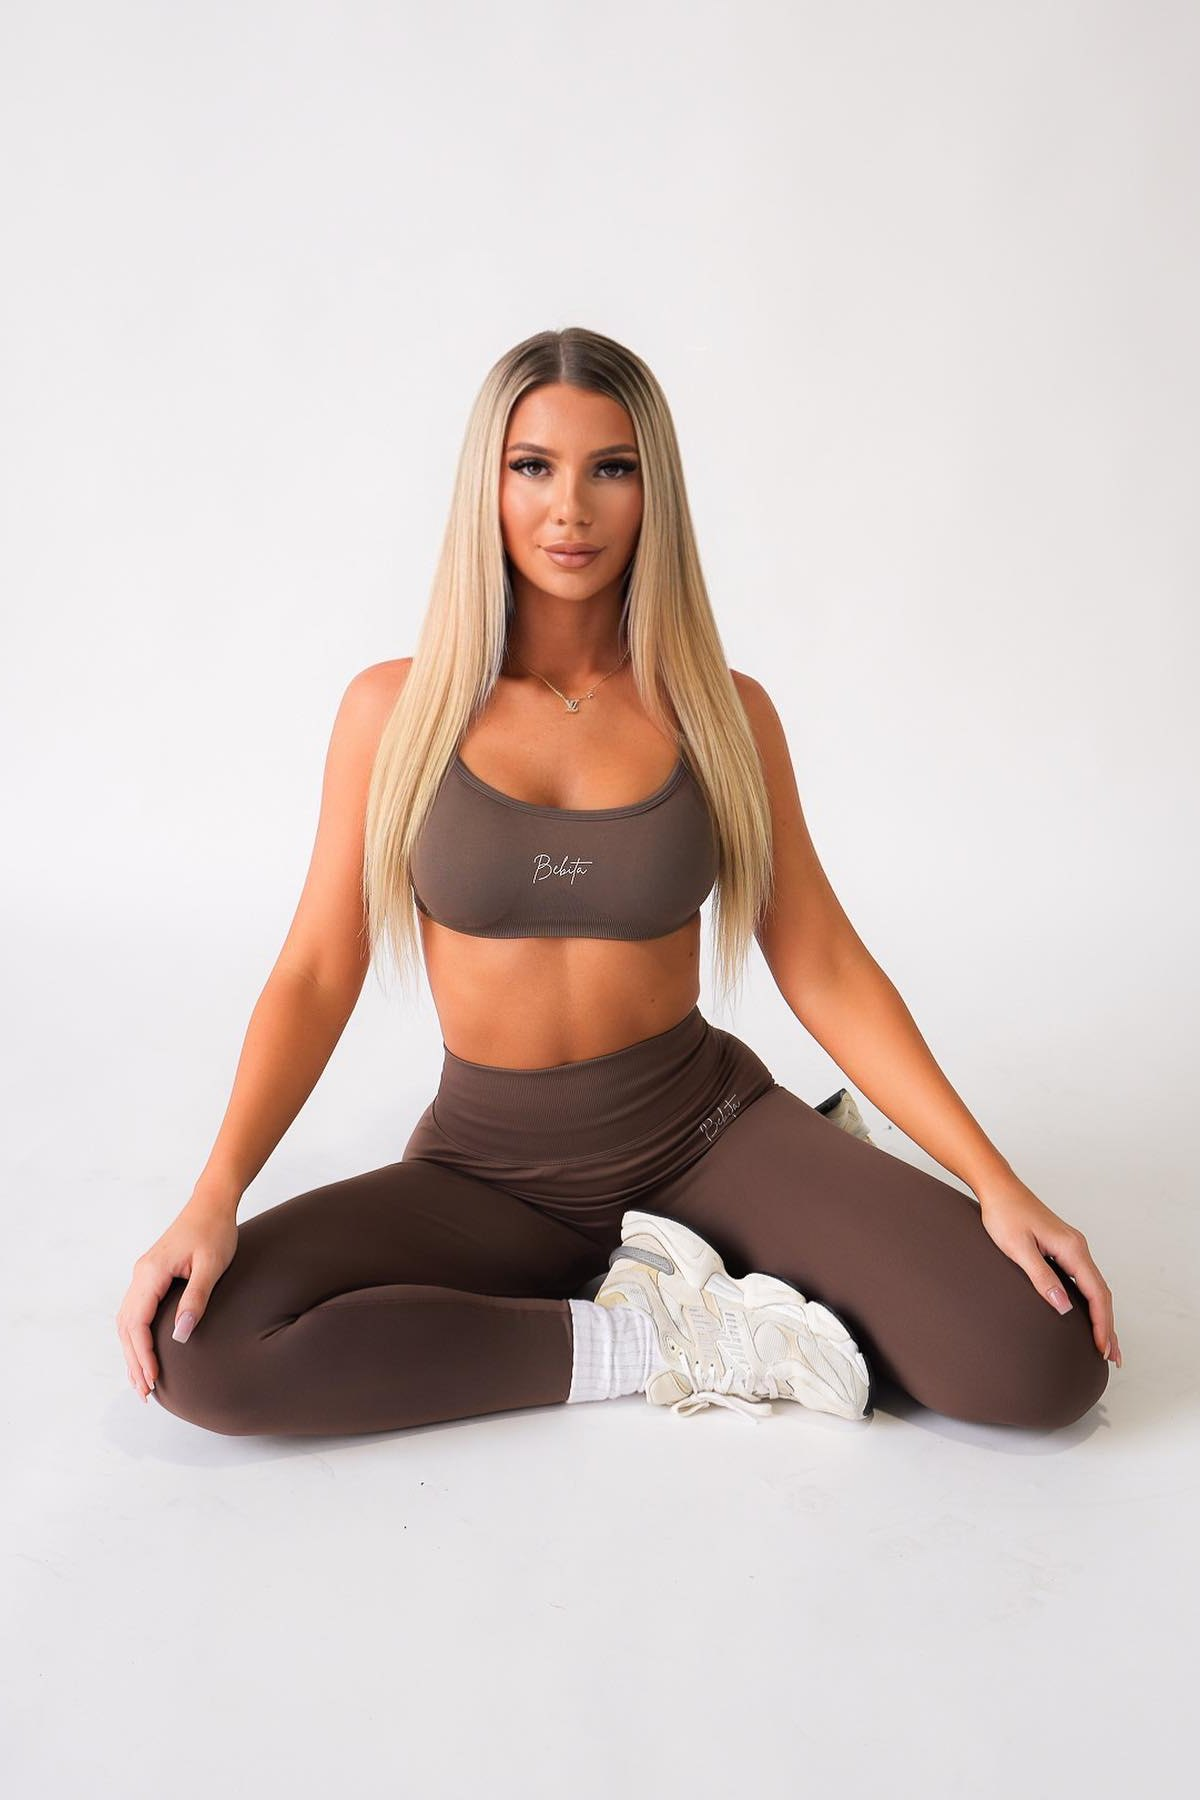
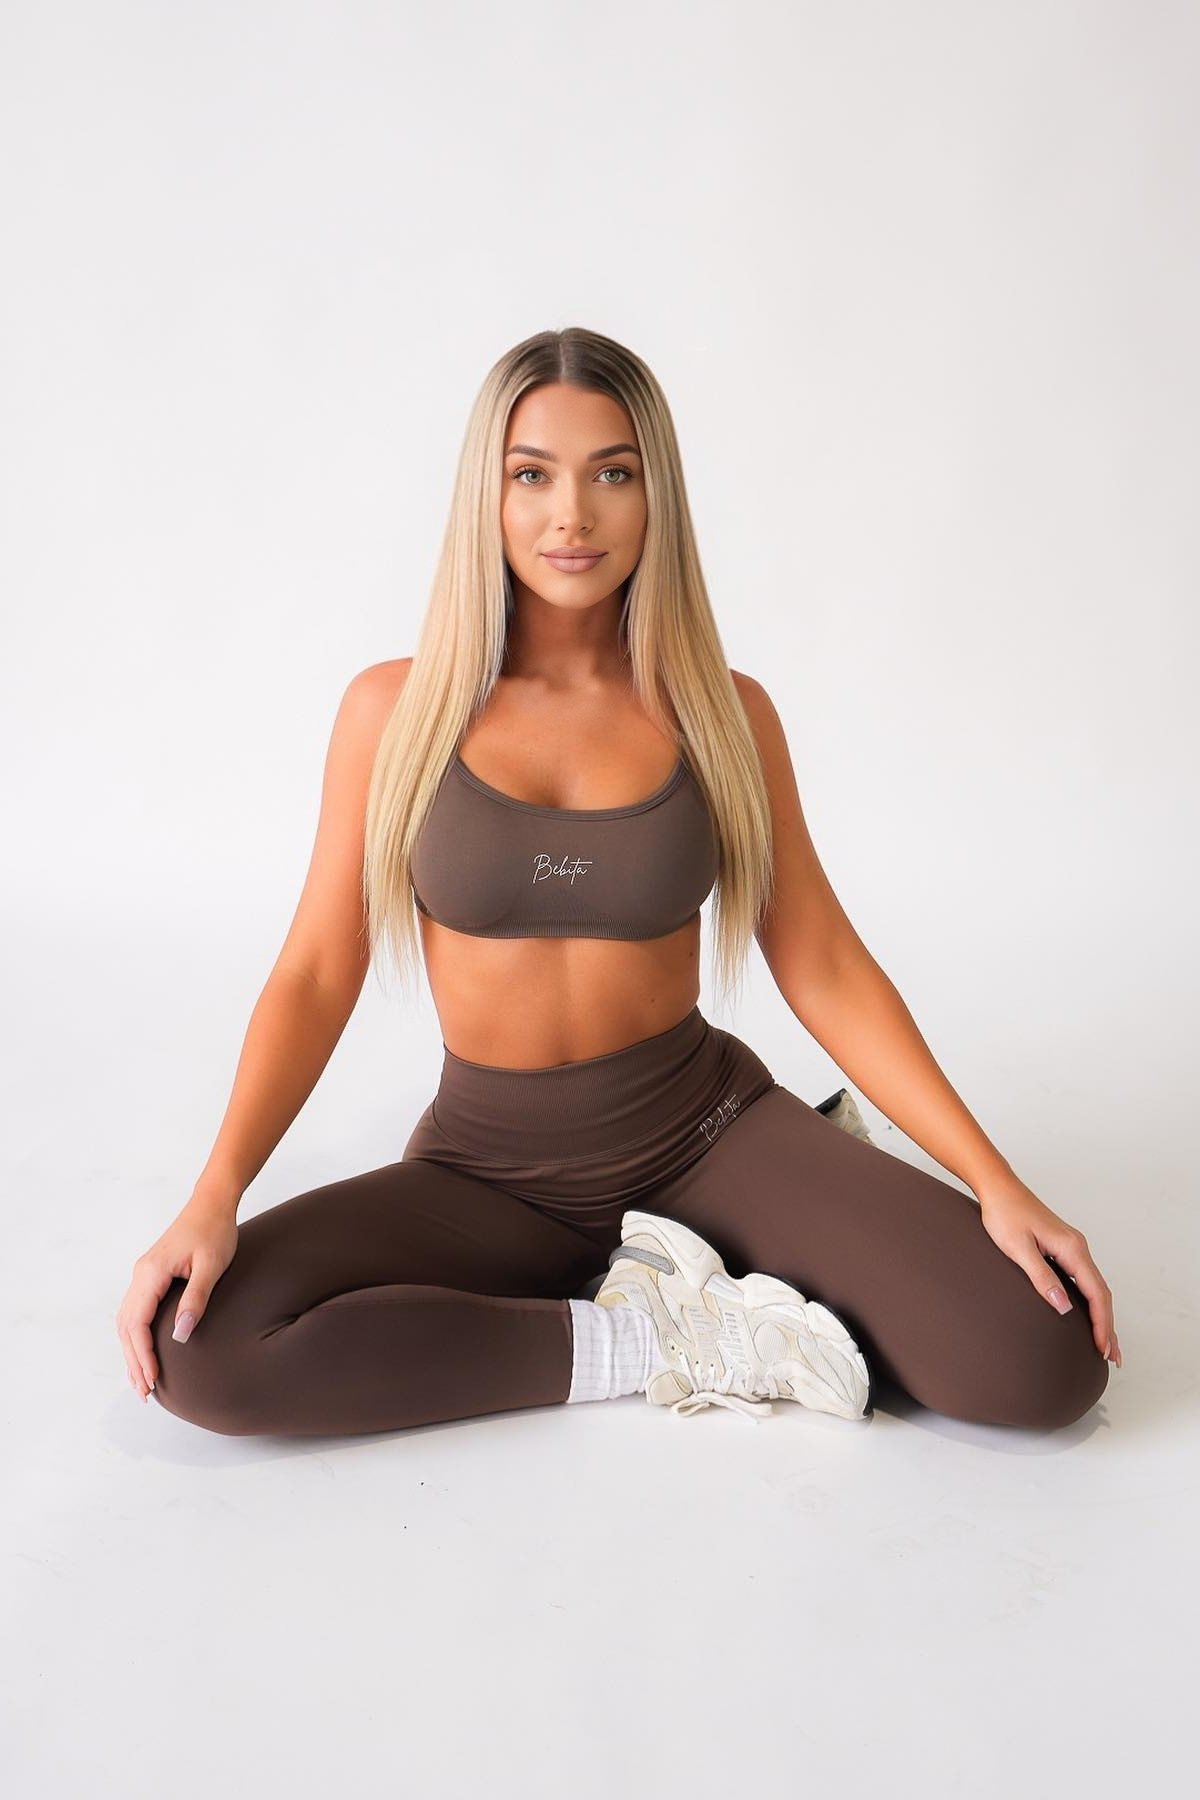
Bebita: face-replaced a175 (test, 75 credits), loader prefers edited/ photos

Changed region(s): [[0.4008, 0.2489, 0.555, 0.4044]]

diff --git a/projects/shopify-store/bebita/load_stock.py b/projects/shopify-store/bebita/load_stock.py
@@ -79,6 +79,9 @@ def photo(ref, h, colour):
     acc = "active" if ref[0] == "a" else "swim"
     folder = os.path.join(RAW, f"instagram-{acc}")
     src = next(f for f in os.listdir(folder) if f.startswith(f"bebita{acc}_{ref[1:]}_"))
+    edited = os.path.join(HERE, "edited", f"{ref}.jpg")   # face-replaced versions win over the originals
+    if os.path.exists(edited):
+        folder, src = os.path.dirname(edited), os.path.basename(edited)
     dst = os.path.join(OUT, f"bebita-{h}-{handle(colour)}.jpg")
     if not os.path.exists(dst):
         im = Image.open(os.path.join(folder, src)).convert("RGB")

diff --git a/projects/shopify-store/bebita/BUILD-LOG.md b/projects/shopify-store/bebita/BUILD-LOG.md
@@ -9,6 +9,7 @@ Budget: 1,000 credits approved 2026-09-30, on top of the direction-round comps.
 |---|---|---|---|
 | 2026-09-30 | 3 home-page comps (direction round) | 225 | 225 |
 | 2026-09-30 | Bebita / COLLECTIVE logo lockup (budget 1/1000) | 75 | 300 |
+| 2026-10-04 | Face replacement test, a175 (Nano Banana 2 retouch, 2K) | 75 | 375 |
 
 ## Built and live on the store (2026-09-30)
 - Custom theme sections, all editable in the theme editor: `bb-header` (script logo, "Collective", menu drawer, bag count), `bb-mirrors`, `bb-build`, `bb-line` (Active and Swim, mirrored), `bb-statement`, `bb-room` and `bb-promise`. Shared CSS and JS are in `theme/assets/`, with self-hosted Parkinsans 800 and Public Sans. Originals of every theme file are in `theme-backup/`.
